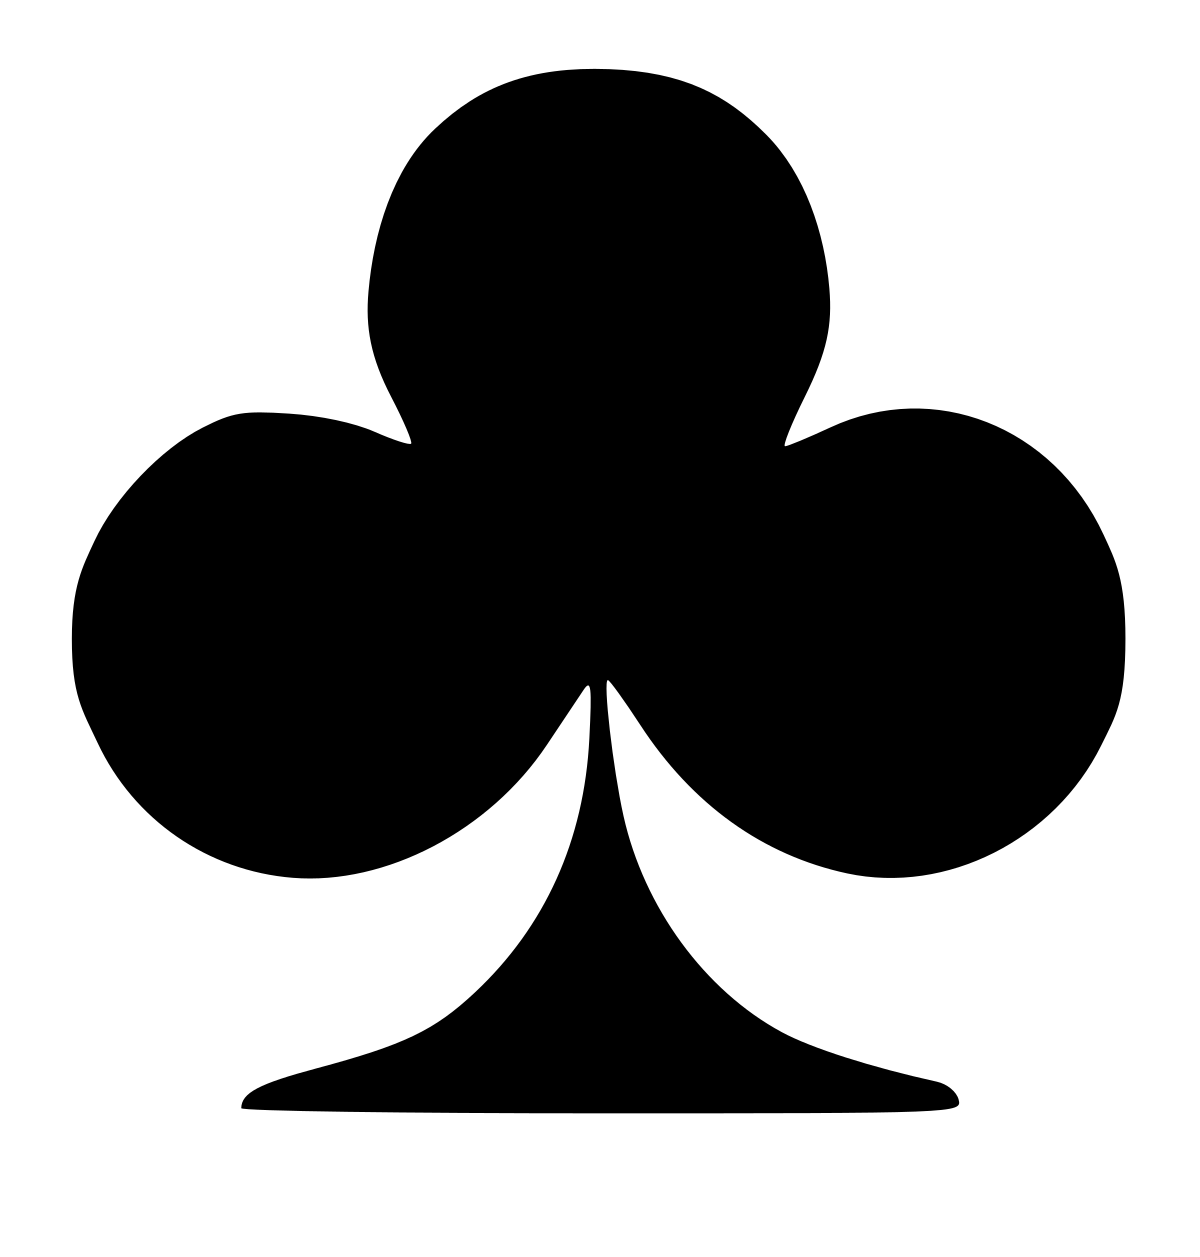
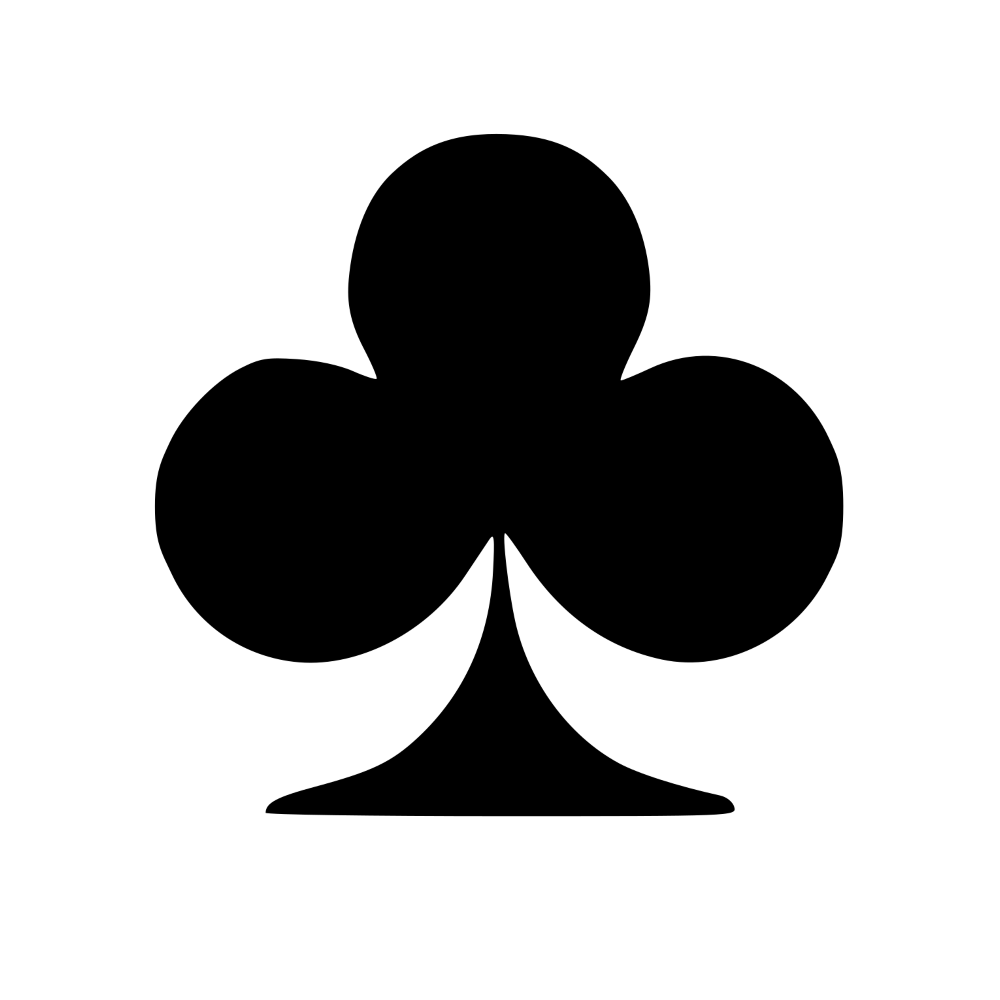
fix image sizing

diff --git a/README.md b/README.md
@@ -1,8 +1,8 @@
 # simple-blackjack
-Node 14.16.1 (LTS) or later is installed and `npm` is on the PATH
+Node 14.16.1 or later is installed and `npm` is on the PATH
 
 ## Project start
-execute `npm install` followed by `npm run serve` in the project root then open http://localhost:8080 in a web browser
+Execute `npm install` followed by `npm run serve` in the project root then open http://localhost:8080 in a web browser
 
 ## Project setup
 ```
